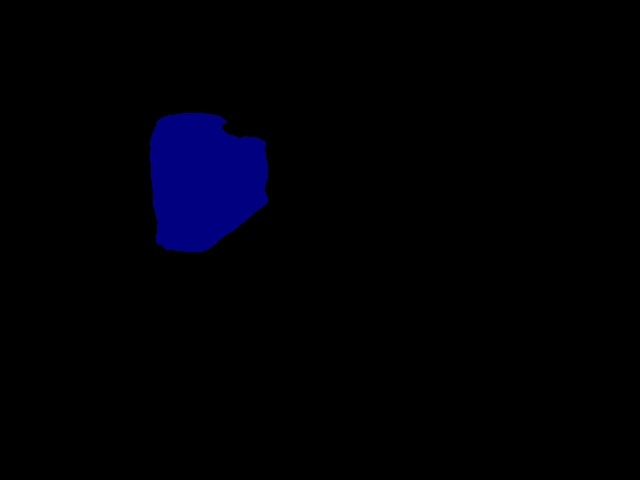
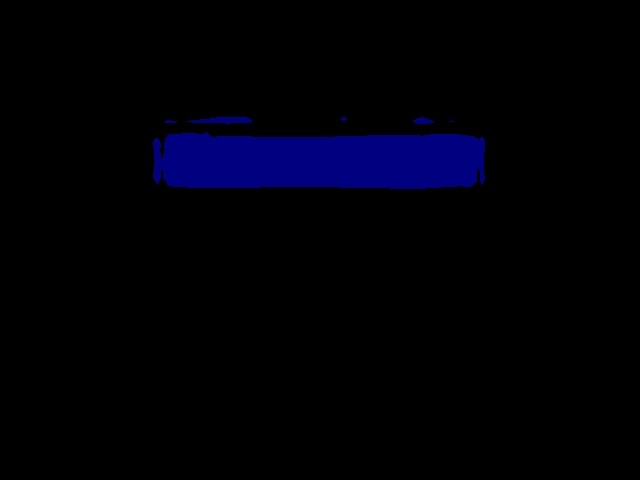
trying to get filter right

Changed region(s): [[0.2188, 0.2188, 0.7812, 0.5312]]

diff --git a/pcl_filter/src/3d_to_2d.cpp b/pcl_filter/src/3d_to_2d.cpp
@@ -86,7 +86,7 @@ void sync_callback(const sensor_msgs::ImageConstPtr &image, const sensor_msgs::P
 
         // Only bridge
 	//cv::inRange(frame_HSV, cv::Scalar(0,0,0), cv::Scalar(180,30,156), g_thresh); // this is the original filter
-	cv::inRange(frame_HSV,cv::Scalar(230,230,40), cv::Scalar(250,255,60),g_thresh);	// this is the new filter
+	cv::inRange(frame_HSV,cv::Scalar(98,81,0), cv::Scalar(114,255,255),g_thresh);	// this is the new filter
 
 
         //cv::inRange(frame_HSV, cv::Scalar(5,5,5), cv::Scalar(255,255,255), g_thresh);
